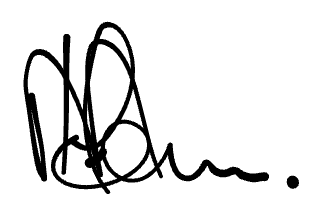
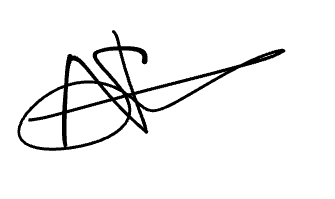
Use Nestara-Limited-Signature.png for lead trainer slot, blank line for Nestara

Changed region(s): [[0.0299, 0.0905, 0.8657, 0.995], [0.8358, 0.8744, 0.8955, 0.9648]]

diff --git a/src/components/NicheCertificate.tsx b/src/components/NicheCertificate.tsx
@@ -439,20 +439,6 @@ const NicheCertificate: React.FC<NicheCertificateProps> = ({
                   <div style={{ display:"flex", justifyContent:"space-between", alignItems:"end", padding:"0 40px" }}>
                     <div style={{ width:"200px", textAlign:"center" }}>
                       <div style={{ position:"relative", height:"52px", marginBottom:"8px" }}>
-                        <img
-                          src="/Nestara-Limited-Signature.png"
-                          alt="Nestara Limited Signature"
-                          style={{
-                            position:"absolute",
-                            bottom:"2px",
-                            left:"50%",
-                            transform:"translateX(-50%)",
-                            height:"48px",
-                            width:"auto",
-                            objectFit:"contain",
-                            filter:"invert(27%) sepia(100%) saturate(700%) hue-rotate(190deg) brightness(90%)",
-                          }}
-                        />
                         <div style={{ position:"absolute", bottom:0, left:0, right:0, borderBottom:"2px solid #000" }} />
                       </div>
                       <span className="font-poppins" style={{ fontSize:"clamp(9px,0.9vw,12px)", color:"#000", fontWeight:500, display:"block", whiteSpace:"nowrap" }}>
@@ -499,7 +485,7 @@ const NicheCertificate: React.FC<NicheCertificateProps> = ({
                     <div style={{ width:"200px", textAlign:"center" }}>
                       <div style={{ position:"relative", height:"52px", marginBottom:"8px" }}>
                         <img
-                          src="/Lead-Trainer-Signature.png"
+                          src="/Nestara-Limited-Signature.png"
                           alt="Lead Trainer Signature"
                           style={{
                             position:"absolute",

diff --git a/src/components/NicheTranscript.tsx b/src/components/NicheTranscript.tsx
@@ -497,7 +497,7 @@ const NicheTranscript: React.FC<NicheTranscriptProps> = ({
                     <div style={{ textAlign:"right" }}>
                       <div style={{ position:"relative", width:"180px", height:"30px", marginBottom:"1px" }}>
                         <img
-                          src="/Lead-Trainer-Signature.png"
+                          src="/Nestara-Limited-Signature.png"
                           alt="Lead Trainer Signature"
                           style={{
                             position:"absolute",
